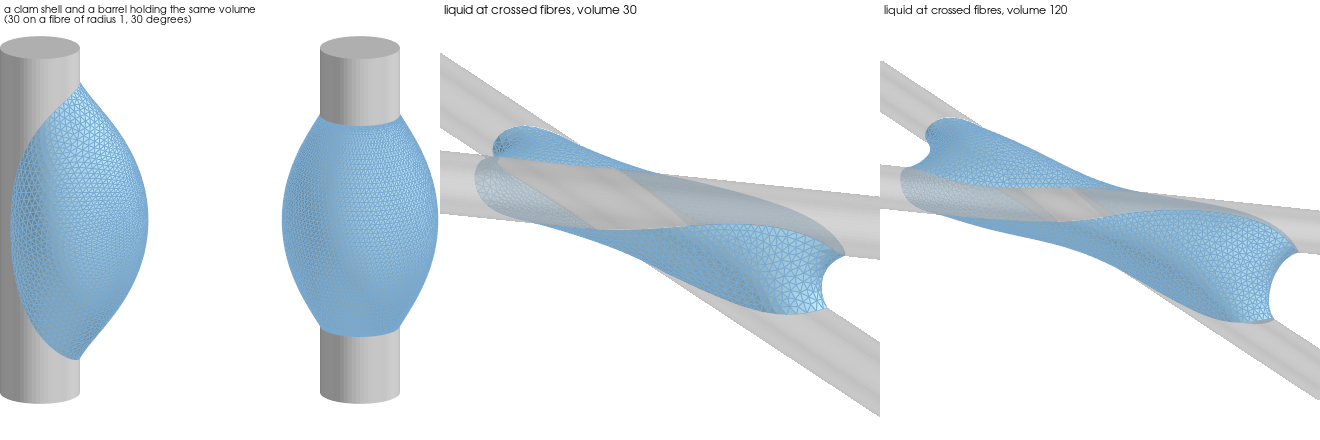
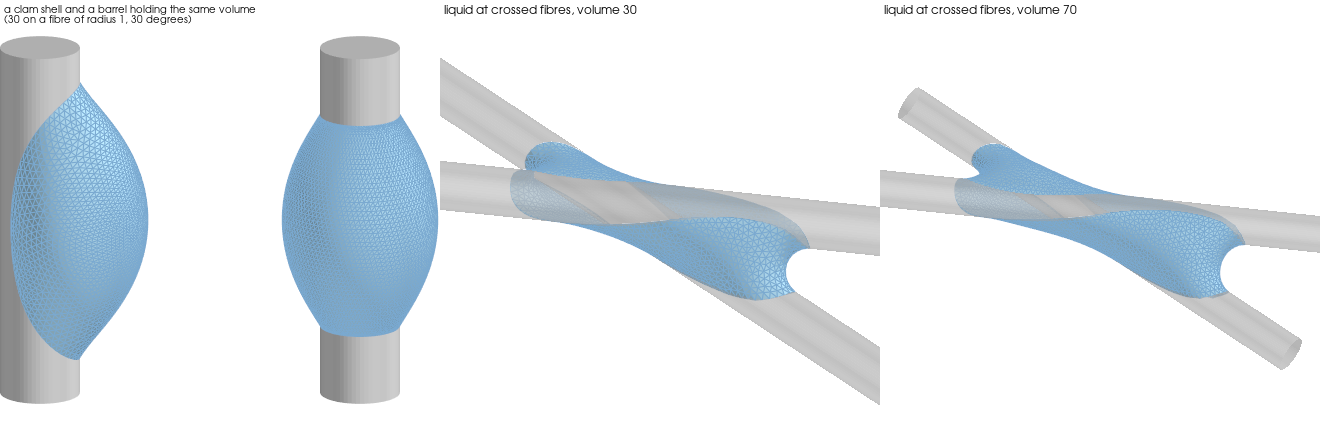
fibres figures: crossed fibres perfectly wetting, to volume 70
Claude-Session: https://claude.ai/code/session_01Kwrdj7nwy1jTuiKZ3FpBEY

diff --git a/tools/fibres_figure.py b/tools/fibres_figure.py
@@ -196,7 +196,7 @@ def main():
                                    radius=1.0, height=26.0, resolution=60), opacity=0.45, **SOLID)
         p.add_text(f"liquid at crossed fibres, volume {volume}", position="upper_left",
                    font_size=9, color="black")
-        view(p, (0.2, -0.5, 1.0), (0, 0, 0), {30: 7.0, 70: 9.0}[volume])
+        view(p, (0.2, -0.5, 1.0), (0, 0, 0), {30: 9.0, 70: 12.0}[volume])
     p.screenshot(os.path.join(STATIC, "fibres_shapes.png"))
     p.close()
     print("wrote", os.path.normpath(STATIC) + "/fibres*.png")
